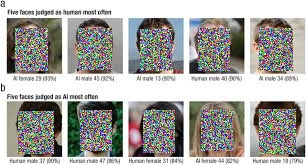
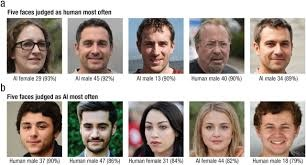
.

diff --git a/enc_face.py b/enc_face.py
@@ -27,56 +27,51 @@ def load_model(weights, device):
     return model
 
 
-def show_results(img, dets, confs, class_nums, filename):
+def show_results(img, xyxy, conf, class_num, filename):
     h, w, c = img.shape
     tl = 1 or round(0.002 * (h + w) / 2) + 1  # line/font thickness
+    x1 = int(xyxy[0])
+    y1 = int(xyxy[1])
+    x2 = int(xyxy[2])
+    y2 = int(xyxy[3])
+
+    x = x1; y = y1; w = x2 - x1; h = y2 - y1
     
-    nonce = (int(filename.replace(".jpg", ""))).to_bytes(8, byteorder='big') # get file name to num
+    roi = img[y:y+h, x:x+w].tobytes()
+    nonce = (int(filename.replace(".jpg", ""))).to_bytes(8)
+    
+    cipher = ChaCha20.new(key=key, nonce=nonce)
+    encrypted = cipher.encrypt(roi)
 
     img_enc = img.copy()
-    img_dec = img_enc.copy()
-    
-    for i, det in enumerate(dets):
-        x1 = int(det[0])
-        y1 = int(det[1])
-        x2 = int(det[2])
-        y2 = int(det[3])
+    roi_encrypted = np.frombuffer(encrypted, dtype=np.uint8).reshape((h, w, 3))
+    img_enc[y:y+h, x:x+w] = roi_encrypted
 
-        x = x1; y = y1; w1 = x2 - x; h1 = y2 - y
-
-        try:
-            roi = img[y:y+h1, x:x+w1].tobytes()
-
-            # encrypt the ROI
-            cipher = ChaCha20.new(key=key, nonce=nonce)
-            encrypted = cipher.encrypt(roi)
-            roi_encrypted = np.frombuffer(encrypted, dtype=np.uint8).reshape((h1, w1, 3))
-            img_enc[y:y+h1, x:x+w1] = roi_encrypted
-
-            # decrypt the ROI
-            cipher_dec = ChaCha20.new(key=key, nonce=nonce)
-            decrypted = cipher_dec.decrypt(encrypted)
-            roi_decrypted = np.frombuffer(decrypted, dtype=np.uint8).reshape((h1, w1, 3))
-            img_dec[y:y+h1, x:x+w1] = roi_decrypted
-
-            cv2.rectangle(img, (x1, y1), (x2, y2), (0, 255, 0), thickness=tl, lineType=cv2.LINE_AA)
-
-        except Exception as e:
-            print(f"Error processing ROI: {e}")
-            continue
-
-    # save the images
     enc_output_path = os.path.join(enc_dir, f"enc_{filename}")
-    dec_output_path = os.path.join(dec_dir, f"dec_{filename}")
     cv2.imwrite(enc_output_path, img_enc)
-    cv2.imwrite(dec_output_path, img_dec)
-
     print(f"✅ 암호화 저장: {enc_output_path}")
+
+
+    cipher_dec = ChaCha20.new(key=key, nonce=nonce)
+    decrypted = cipher_dec.decrypt(encrypted)
+    roi_decrypted = np.frombuffer(decrypted, dtype=np.uint8).reshape((h, w, 3))
+
+    # 복호화된 ROI 삽입
+    img_dec = img_enc.copy()
+    img_dec[y:y+h, x:x+w] = roi_decrypted
+
+    # 복호화 이미지 저장
+    dec_output_path = os.path.join(dec_dir, f"dec_{filename}")
+    cv2.imwrite(dec_output_path, img_dec)
     print(f"✅ 복호화 저장: {dec_output_path}")
+
+
     print("🔑 Key:", key.hex())
     print("🔓 Nonce:", nonce.hex())
     
+    cv2.rectangle(img, (x1, y1), (x2, y2), (0, 255, 0), thickness=tl, lineType=cv2.LINE_AA)
     return img
+
 
 def detect(model, source, device, project, name, exist_ok, save_img, view_img):
     img_size = 640
@@ -139,10 +134,12 @@ def detect(model, source, device, project, name, exist_ok, save_img, view_img):
 
             if len(det):
                 det[:, :4] = scale_coords(img.shape[2:], det[:, :4], im0.shape).round()
-                det = det.cpu().numpy()
-                confs = det[:, 4]
-                class_nums = det[:, 15]
-                im0 = show_results(im0, det[:, :4], confs, class_nums, filename)
+
+                for j in range(det.size()[0]):
+                    xyxy = det[j, :4].view(-1).tolist()
+                    conf = det[j, 4].cpu().numpy()
+                    class_num = det[j, 15].cpu().numpy()
+                    im0 = show_results(im0, xyxy, conf, class_num, filename)
 
             if view_img:
                 cv2.imshow('result', im0)
@@ -182,7 +179,7 @@ if __name__ == '__main__':
     parser = argparse.ArgumentParser()
     parser.add_argument('--weights', nargs='+', type=str, default='weights/yolov5n-face.pt', help='model.pt path(s)')
     parser.add_argument('--source', type=str, default='./myimages', help='source')  # file/folder, 0 for webcam
-    parser.add_argument('--img-size', type=int, default=640, help='inference size (pixels)')
+    parser.add_argument('--img-size', type=int, default=480, help='inference size (pixels)')
     parser.add_argument('--project', default=os.path.join(ROOT, 'runs', 'detect'), help='save results to project/name')
     parser.add_argument('--name', default='exp', help='save results to project/name')
     parser.add_argument('--exist-ok', action='store_true', help='existing project/name ok, do not increment')
